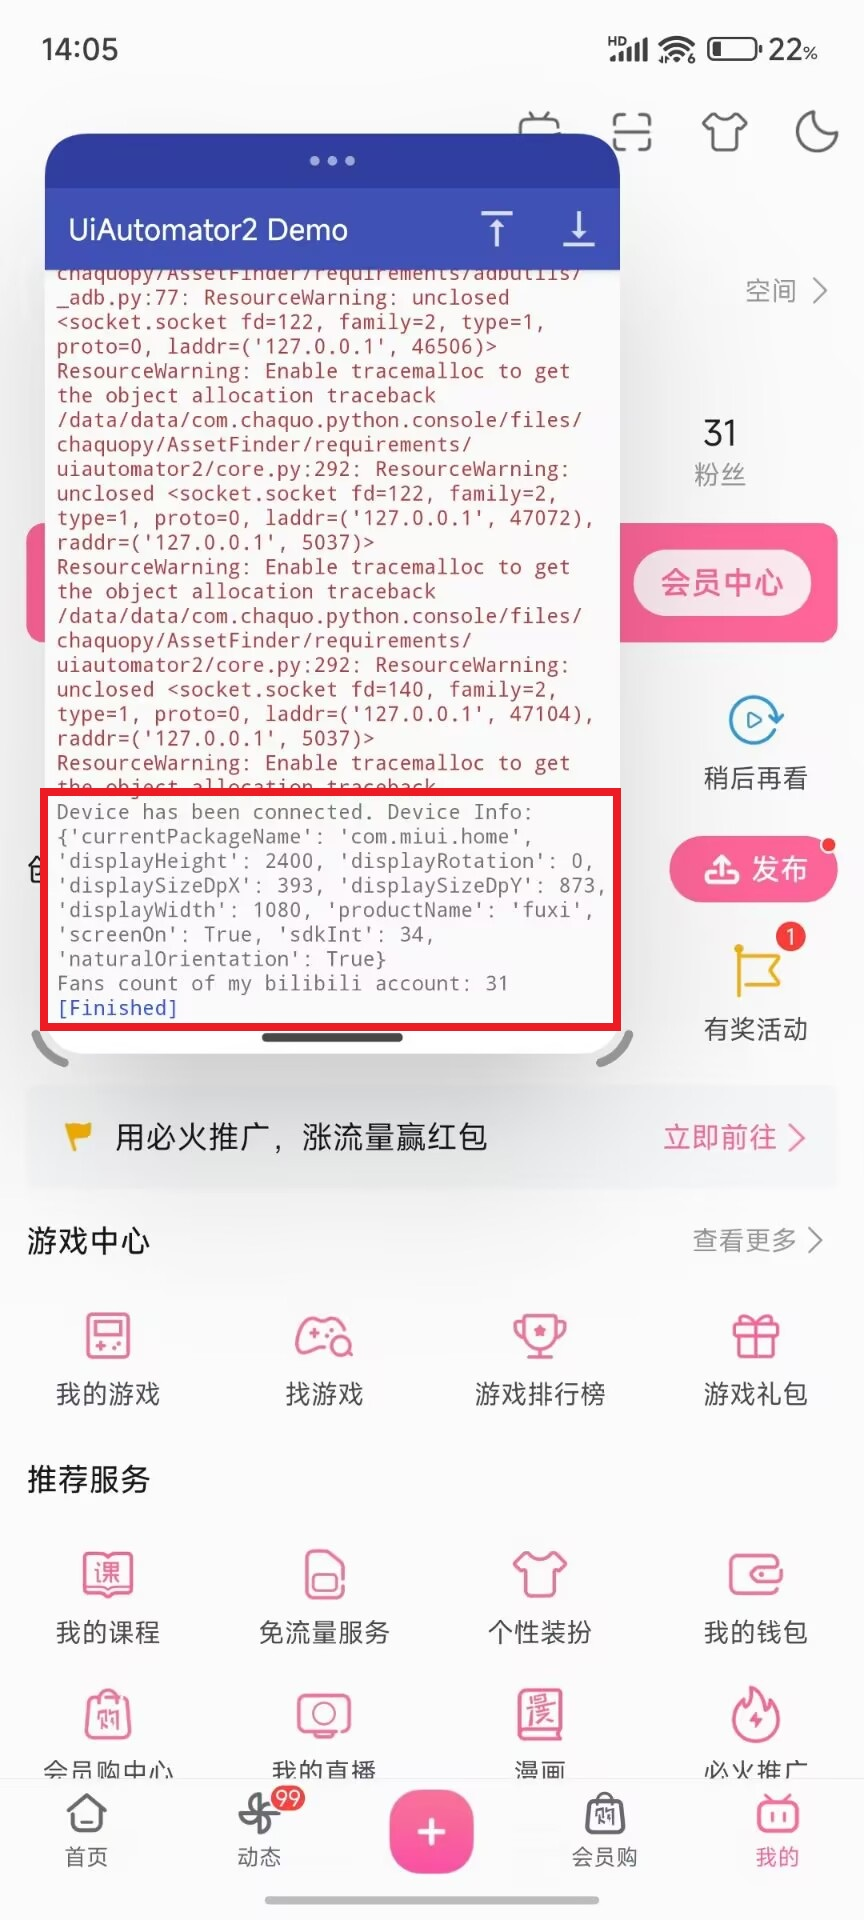
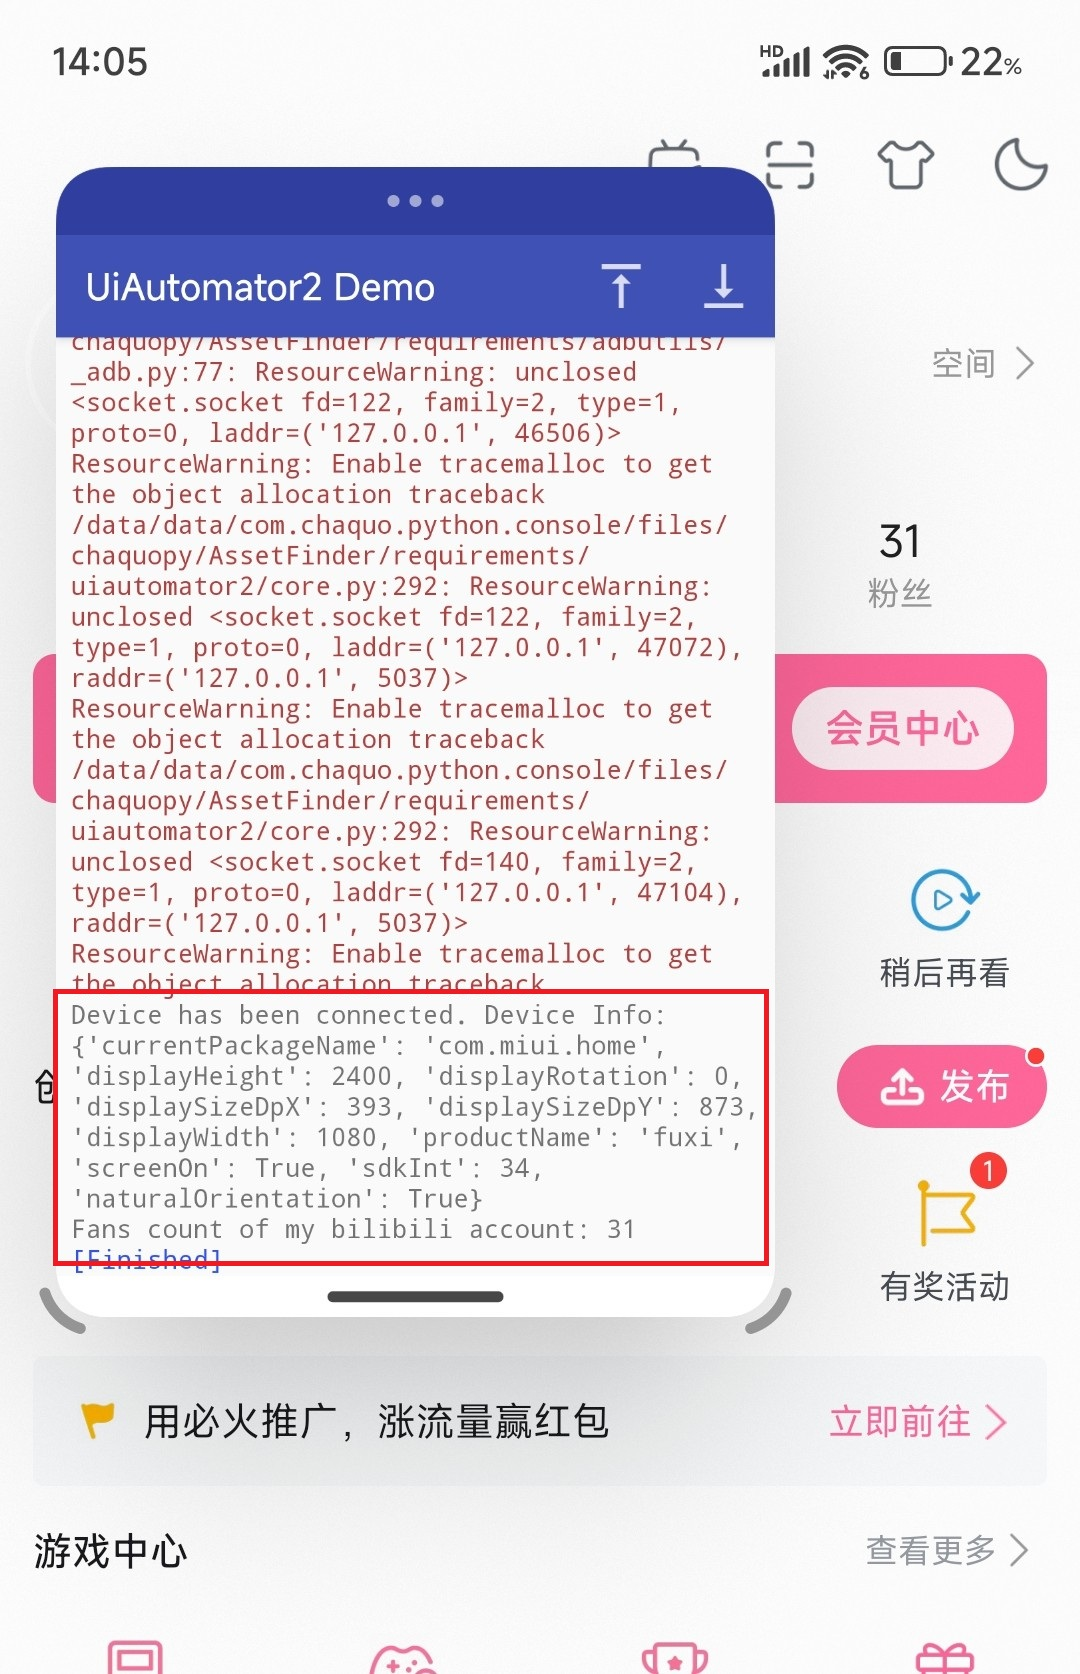
Update README

diff --git a/README.md b/README.md
@@ -14,11 +14,11 @@
 
 ## Screenshots
 
-<img src="docs/1.jpg" width="300" />
+<img src="docs/1.jpg" width="400" />
 
 ![](docs/2.png)
 
-<img src="docs/3.jpg" width="300" />
+<img src="docs/3.jpg" width="500" />
 
 ## More Details
 
